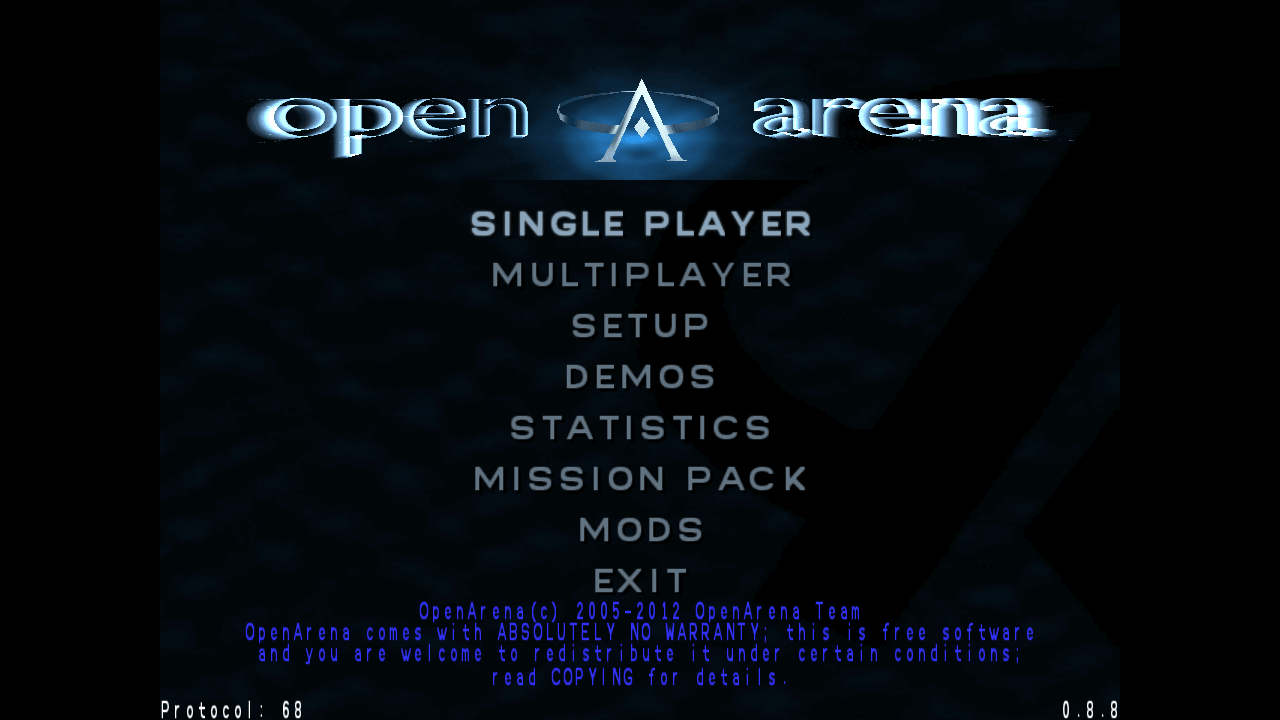
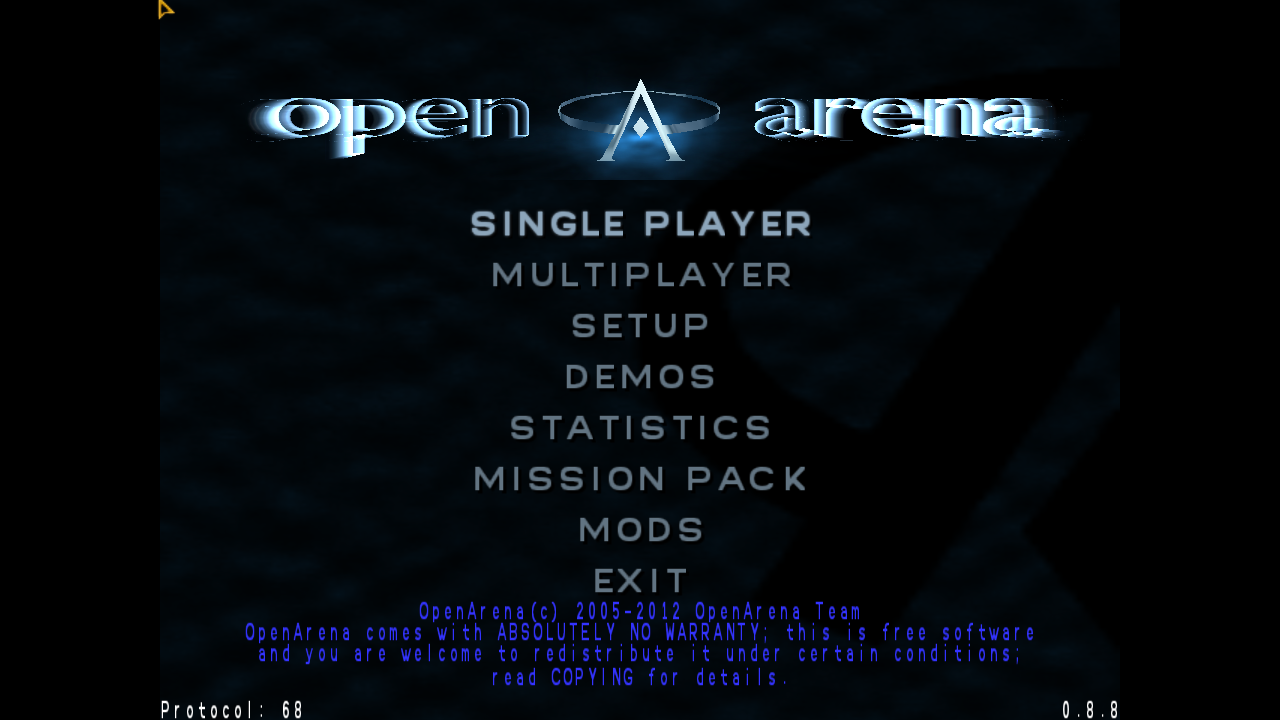
Client parity: new 0.8.8 references and shots, black pillarbox under menus
- docs/parity/ref: retaken with ioquake3 built from vendor/ioq3 on the
  0.8.8 pk3s and QVMs, from a viewpoint with nothing in front of it.
- Client.UpdateScreen clears the sides of a wide screen under a full-screen
  menu, as SCR_DrawScreenField does.
- Scene fixtures: armor 200 and a skill 4 bot, as the reference run has.
- client-notes: RMSE hud 0.033, scores 0.055, menu 0.107; what is left is
  edit-mode and engine-side only.

Changed region(s): [[0.1875, 0.0917, 0.8438, 0.275], [0.125, 0.0, 0.1562, 0.0306]]

diff --git a/docs/client-notes.md b/docs/client-notes.md
@@ -200,6 +200,8 @@ the axis is converted, never the Euler angles.
   to the screen like OA 0.8.8 (`xscale = w/640`, no bias); `cg_wideScreenHud 1`
   (new, archived, default 0) switches to leilei's 4:3-centred layout.
   q3_ui always centres 4:3 (`uis.bias`).
+  As in ioquake3's `SCR_DrawScreenField`, `Client.UpdateScreen` clears a
+  wide screen to black under a full-screen menu, so the menus pillarbox.
 - A stretch pic is one `ImageLabel` per shader stage: UVs map to
   `ImageRectOffset/Size`, `R_SetColor` x `rgbGen/alphaGen` to
   `ImageColor3/ImageTransparency`. UVs past 0..1 are cut into one label per
@@ -308,7 +310,10 @@ trusts it (Q3 doesn't), which drew black boxes behind icons.
 ## Parity (docs/parity)
 
 Reference shots come from OA 0.8.8's own QVMs and data (see "Walls" for the
-engine), `scripts/oa-ref.sh <name> <console commands>`; ours come from
+engine), `scripts/oa-ref.sh <name> <console commands>` (for the in-game shots:
+`devmap oa_dm1`, `wait 200`, then `give all` or `addbot sergei`,
+`setviewpos 6000 6000 6000 0`, `cg_draw3dIcons 0`, `cg_drawGun 0`,
+`r_drawworld 0`, `r_clear 1`, and `+scores` for the scoreboard); ours come from
 `scripts/parity.py`, which pushes the modules into a running rbx-native
 editor over MCP, runs a fixture from `src/client/dev/Scene.luau` and takes
 `screen_capture`. Ours is drawn at 640x360 (the editor viewport is 962x453
@@ -320,9 +325,9 @@ normalised RMSE over the whole frame.
 
 | shot | RMSE | what differs |
 |---|---|---|
-| `hud_side` (FFA, `give all`, `cg_draw3dIcons 0`) | 0.039 | score box 8 virtual units higher (the vendored gamecode's `CG_DrawLowerRight` starts at `472 - ICON_SIZE`; 0.8.8's QVM uses 480); 3D head is the 2D icon in edit mode (no EditableMesh); console text is in real pixels, so at half size it is twice as big relative to the screen |
-| `scores_side` (FFA, 2 players, `+scores`) | 0.055 | same console/score box notes; otherwise item for item |
-| `menu_side` (main menu) | 0.117 | no 3D banner model (edit mode); background is the baked composite at time 0 and fills 16:9 (the vendored code draws it at `vidWidth`, 0.8.8's QVM pillarboxes); no MISSION PACK item (no missionpack mod on Roblox); copyright year and colours follow the vendored gamecode (2018 colour set); the cursor shows at (0,0) until the mouse moves; "Protocol: 68" in the reference comes from ioquake3 (our client reports 71, so it isn't drawn) |
+| `hud_side` (FFA, `give all`, `cg_draw3dIcons 0`) | 0.033 | item for item; the 3D head is the 2D icon in edit mode (no EditableMesh); console text is in real pixels, so at half size it is twice as big relative to the screen |
+| `scores_side` (FFA, a skill 4 bot, `+scores`) | 0.055 | the same console note; otherwise item for item |
+| `menu_side` (main menu) | 0.107 | no 3D banner model (edit mode); the background is the baked composite at time 0 (frozen `tcMod scroll`); no MISSION PACK item (no missionpack mod on Roblox); the cursor shows at (0,0) until the mouse moves; "Protocol: 68" in the reference comes from ioquake3 (our client reports 71, so it isn't drawn) |
 
 ## Walls
 
@@ -331,7 +336,12 @@ normalised RMSE over the whole frame.
   references use an ioquake3 client built from `vendor/ioq3` with the
   `opengl1` renderer, running OA 0.8.8's own QVMs and pk3s
   (`OA_ENGINE=... scripts/oa-ref.sh`). Engine-side text (console, protocol)
-  is ioquake3's.
+  is ioquake3's. The build needs only the SDL2 runtime: cmake's `SDL2_DIR`
+  can point at a two-line `SDL2Config.cmake` naming
+  `code/thirdparty/SDL2-*/include` and the system `libSDL2-2.0.so.0`.
+  The editor binary has to include the MCP server (rbx-native from late
+  October 2026 on, Settings > Beta features > MCP server, or
+  `{"enabled":["mcp-server"]}` in `<config>/rbx-native/beta.json`).
 - **No EditableMesh in rbx-native's edit runtime** (`AssetService:
   CreateEditableMesh` errors there and under lune). MD3 surfaces then don't
   draw (one warning); the parity shots can't show 3D models. In a running
